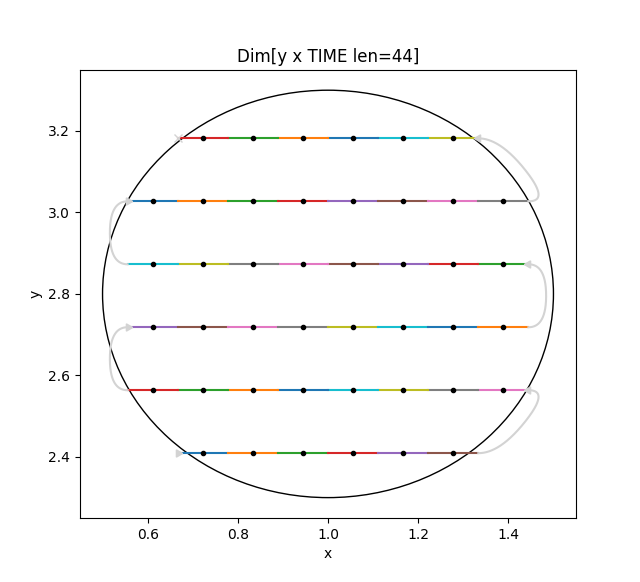
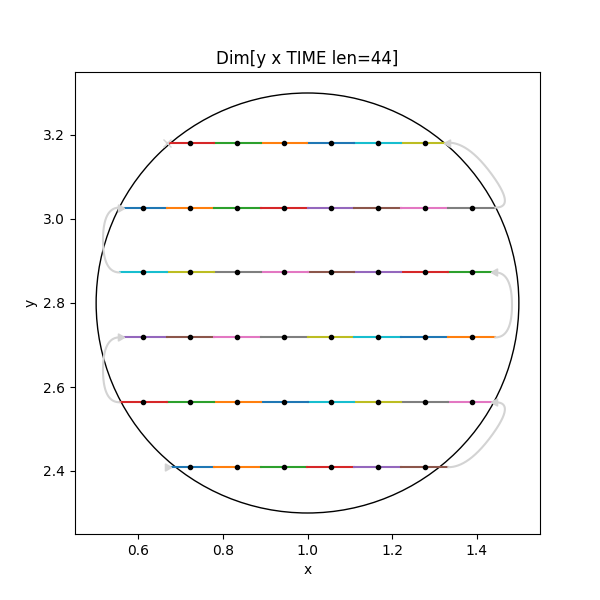
Tweak readme and plotting

diff --git a/tests/test_cli.py b/tests/test_cli.py
@@ -29,12 +29,11 @@ def assert_min_max_3d(line, xmin, xmax, ymin, ymax, zmin, zmax):
 
 def test_plot_1D_line() -> None:
     runner = CliRunner()
-    f = plt.figure()
     spec = 'Line("x", 1, 2, 2)'
     with patch("scanspec.plot.plt.show"):
         result = runner.invoke(cli.cli, ["plot", spec])
     assert result.stdout == ""
-    lines = f.axes[0].lines
+    lines = plt.gcf().axes[0].lines
     assert len(lines) == 5
     # Splines
     assert_min_max_2d(lines[0], 0.5, 1.5, 0, 0)
@@ -50,12 +49,11 @@ def test_plot_1D_line() -> None:
 
 def test_plot_2D_line() -> None:
     runner = CliRunner()
-    f = plt.figure()
     spec = 'Line("y", 2, 3, 2) * Snake(Line("x", 1, 2, 2))'
     with patch("scanspec.plot.plt.show"):
         result = runner.invoke(cli.cli, ["plot", spec])
     assert result.exit_code == 0
-    lines = f.axes[0].lines
+    lines = plt.gcf().axes[0].lines
     assert len(lines) == 9
     # First row
     assert_min_max_2d(lines[0], 0.5, 1.5, 2, 2)
@@ -78,11 +76,11 @@ def test_plot_2D_line() -> None:
 
 def test_plot_2D_line_rect_region() -> None:
     runner = CliRunner()
-    f = plt.figure()
     spec = "Line(y, 1, 3, 5) * Line(x, 0, 2, 3) & Rectangle(x, y, 0, 1.1, 1.5, 2.1, 30)"
     with patch("scanspec.plot.plt.show"):
         result = runner.invoke(cli.cli, ["plot", spec])
     assert result.exit_code == 0
+    f = plt.gcf()
     lines = f.axes[0].lines
     assert len(lines) == 8
     # First row
@@ -112,12 +110,11 @@ def test_plot_2D_line_rect_region() -> None:
 
 def test_plot_3D_line() -> None:
     runner = CliRunner()
-    f = plt.figure()
     spec = 'Snake(Line("z", 5, 6, 2) * Line("y", 2, 3, 2) * Line("x", 1, 2, 2))'
     with patch("scanspec.plot.plt.show"):
         result = runner.invoke(cli.cli, ["plot", spec],)
     assert result.exit_code == 0
-    lines = f.axes[0].lines
+    lines = plt.gcf().axes[0].lines
     assert len(lines) == 17
     # First grid
     # First row

diff --git a/scanspec/plot.py b/scanspec/plot.py
@@ -10,7 +10,7 @@ from scipy import interpolate
 
 from .core import Dimension, Path
 from .regions import Circle, Rectangle, Region
-from .specs import Spec, TIME
+from .specs import TIME, Spec
 
 # Number of padding points to make the spline look nice
 PAD = 2
@@ -83,6 +83,7 @@ def plot_spec(spec: Spec):
     ndims = len(keys)
 
     # Setup axes
+    plt.figure(figsize=(6, 6))
     if ndims > 2:
         axes = plt.axes(projection="3d")
         axes.grid(False)
@@ -150,9 +151,7 @@ def plot_spec(spec: Spec):
         last_index = index
 
     # Plot the end
-    plot_arrays(
-        axes, [[dim.upper[k][-1]] for k in keys], marker="x", color="lightgrey"
-    )
+    plot_arrays(axes, [[dim.upper[k][-1]] for k in keys], marker="x", color="lightgrey")
 
     # Plot the capture points
     if len(dim) < 200:

diff --git a/tests/test_specs.py b/tests/test_specs.py
@@ -177,9 +177,7 @@ def test_squashed_multiplied_snake_scan() -> None:
             y: pytest.approx([1, 1, 1, 1, 2, 2, 2, 2]),
             TIME: pytest.approx([9, 9, 9, 9, 9, 9, 9, 9]),
         }
-    assert (
-        dimz.positions == dimz.lower == dimz.upper == {z: pytest.approx([1, 2])}
-    )
+    assert dimz.positions == dimz.lower == dimz.upper == {z: pytest.approx([1, 2])}
 
 
 def test_product_snaking_lines() -> None:

diff --git a/docs/conf.py b/docs/conf.py
@@ -99,7 +99,7 @@ intersphinx_mapping = dict(python=("https://docs.python.org/3/", None))
 inheritance_graph_attrs = dict(rankdir="TB")
 
 # Plot things
-plot_rcparams = {"axes3d.grid": False, "figure.figsize": (6.4, 6.4)}
+plot_rcparams = {"axes3d.grid": False, "figure.figsize": (6, 6)}
 
 # Common links that should be available on every page
 rst_epilog = """

diff --git a/scanspec/specs.py b/scanspec/specs.py
@@ -1,4 +1,3 @@
-from dataclasses import dataclass
 from typing import Any, Callable, Dict, Iterator, List, Optional, Union, cast
 
 import numpy as np

diff --git a/README.rst b/README.rst
@@ -29,7 +29,7 @@ An example ScanSpec of a 2D snaked grid flyscan inside a circle spending 0.4s at
     from scanspec.specs import Line, fly
     from scanspec.regions import Circle
 
-    grid = Line(ymotor, 2.1, 3.8, 12) * ~Line(xmotor, 0.5, 1.5, 100)
+    grid = Line(ymotor, 2.1, 3.8, 12) * ~Line(xmotor, 0.5, 1.5, 10)
     spec = fly(grid, 0.4) & Circle(xmotor, ymotor, 1.0, 2.8, radius=0.5)
 
 .. image:: images/plot_spec.png
@@ -41,8 +41,8 @@ You can then either iterate through the scan positions directly for convenience:
     for positions in spec.positions():
         print(positions)
     # ...
-    # {'y': 3.2813559322033896, 'x': 0.8838383838383839, Time(): 0.4}
-    # {'y': 3.2813559322033896, 'x': 0.8737373737373737, Time(): 0.4}
+    # {ymotor: 3.2813559322033896, xmotor: 0.8838383838383839, "TIME": 0.4}
+    # {ymotor: 3.2813559322033896, xmotor: 0.8737373737373737, "TIME": 0.4}
 
 or create a Path from the Dimensions and consume chunks of a given length from it for performance:
 
@@ -51,12 +51,12 @@ or create a Path from the Dimensions and consume chunks of a given length from i
     from scanspec.core import Path
 
     dims = spec.create_dimensions()
-    len(dims[0].shape)  # 2696
-    dims[0].keys()  # (ymotor, xmotor, Time())
+    len(dims[0].shape)  # 44
+    dims[0].keys()  # (ymotor, xmotor, "TIME")
 
     path = Path(dims, start=5, num=60)
     chunk = path.consume(30)
-    chunk.positions  # {xmotor: <ndarray len=30>, ymotor: <ndarray len=30>, TIME: <ndarray len=30>}
+    chunk.positions  # {xmotor: <ndarray len=30>, ymotor: <ndarray len=30>, "TIME": <ndarray len=30>}
     chunk.upper  # bounds are same dimensionality as positions
 
 
